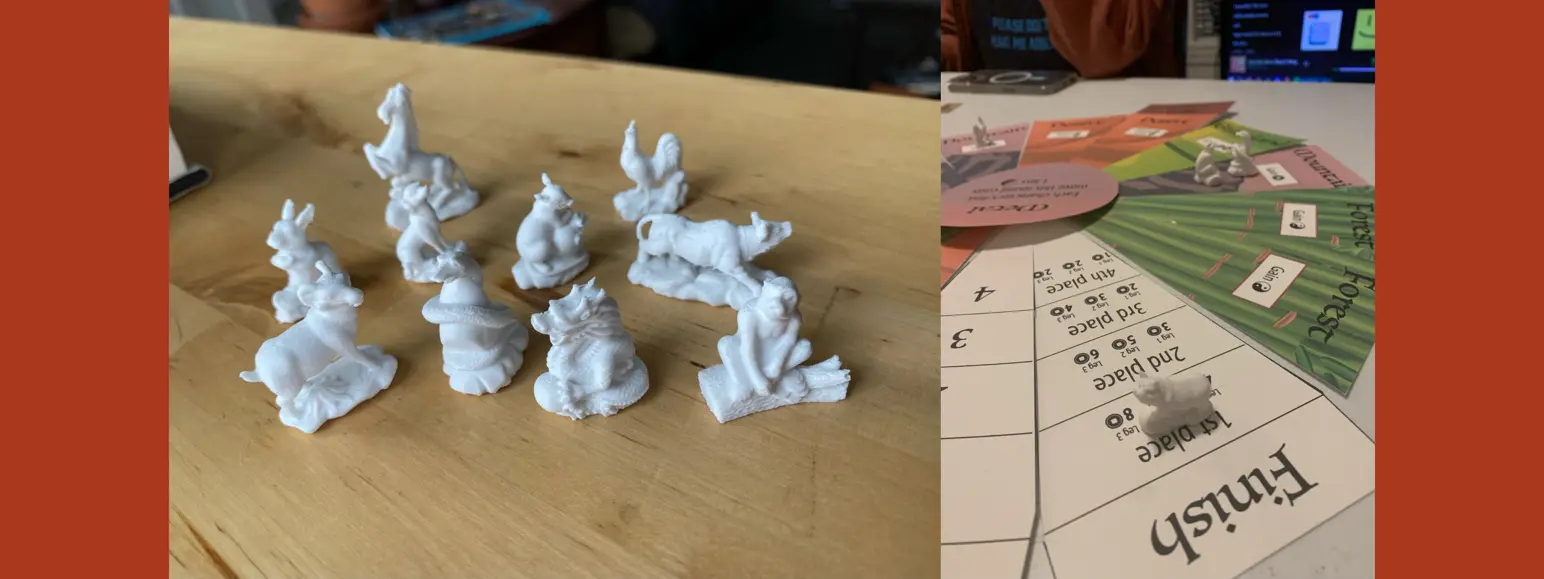
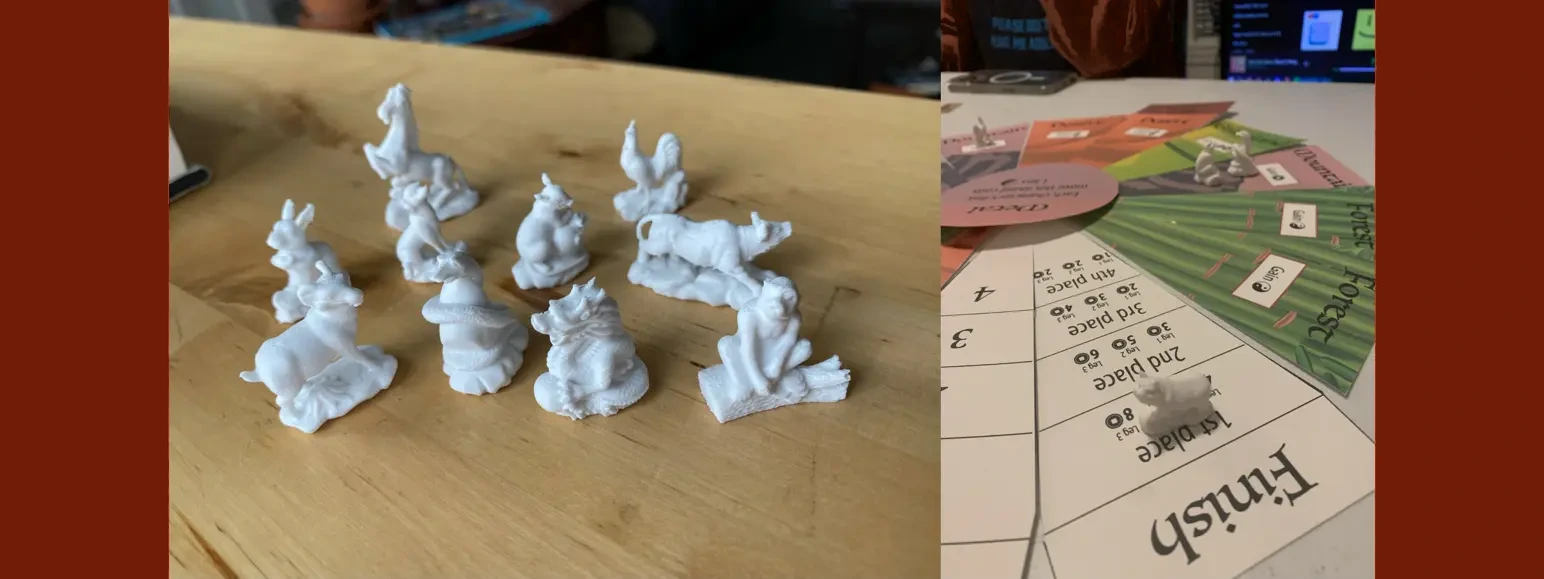
feat(worlds): palette contrast pass from Chris's marks
Pathstream, StartPlaying, Zodiacus grounds deepened; accents re-picked (white on
Clover, Pathstream, TaskRabbit; darker blues on y30 and PlaySesh; purple on
Sharecare; warm off-white on StartPlaying). Label text on Pathstream, TaskRabbit,
StartPlaying now passes 4.5:1. Modus and Amazon cards lifted so they separate from
the ground, with status-warn lightened to keep 4.5:1 on them. Pathstream,
Zodiacus, and TaskRabbit hero images recolored so their baked-in ground matches.
Chosen in spike-palette (throwaway, not committed).

Changed region(s): [[0.8705, 0.0, 1.0, 1.0], [0.0, 0.0, 0.1244, 1.0]]

diff --git a/index.html b/index.html
@@ -1558,18 +1558,20 @@ body[data-world="goodrx"]{
   --world-line:rgba(26,23,16,.22); --world-accent:#6d4bd8; --world-surface:#fffdf0;
   --world-card-bg:#1a1710; --world-card-ink:#ffffff;
   --world-accent-on-card:#9981e4;}
-/* Chris's palettes 2026-09-21. bg/ink his; ACCENT = my suggestion pending his confirm; surface derived
+/* Palette contrast pass 2026-09-23 (Chris's marks, spike-palette): pathstream/startplaying/zodiacus grounds deepened,
+   accents re-picked, label text on pathstream/taskrabbit/startplaying raised to pass, modus/amazon cards lifted.
+   Chris's palettes 2026-09-21. bg/ink his; ACCENT = my suggestion pending his confirm; surface derived
    from bg (his literal white/black surfaces conflicted with the single ink). Cards inherit the base. */
-body[data-world="y30"]{--world-bg:#edf0e7;--world-ink:#111111;--world-ink-soft:rgba(17,17,17,.70);--world-line:rgba(17,17,17,.16);--world-accent:#2E7DDD;--world-surface:color-mix(in srgb,var(--world-bg) 90%,var(--world-ink) 10%);--world-accent-on-card:#5897e4;}
-body[data-world="clover"]{--world-bg:#2D6154;--world-ink:#ffffff;--world-ink-soft:rgba(255,255,255,.72);--world-line:rgba(255,255,255,.22);--world-accent:#333333;--world-surface:color-mix(in srgb,var(--world-bg) 88%,var(--world-ink) 12%);--world-accent-on-card:#999999;}
-body[data-world="playsesh"]{--world-bg:#FEFEFE;--world-ink:#2C3E50;--world-ink-soft:rgba(44,62,80,.72);--world-line:rgba(44,62,80,.18);--world-accent:#4A90E2;--world-surface:color-mix(in srgb,var(--world-bg) 92%,var(--world-ink) 8%);--world-accent-on-card:#5396e3;}
-body[data-world="pathstream"]{--world-bg:#F05154;--world-ink:#ffffff;--world-ink-soft:rgba(255,255,255,.74);--world-line:rgba(255,255,255,.24);--world-accent:#2698D4;--world-surface:color-mix(in srgb,var(--world-bg) 88%,var(--world-ink) 12%);--world-accent-on-card:#319dd6;}
-body[data-world="taskrabbit"]{--world-bg:#038745;--world-ink:#ffffff;--world-ink-soft:rgba(255,255,255,.74);--world-line:rgba(255,255,255,.24);--world-accent:#0089AB;--world-surface:color-mix(in srgb,var(--world-bg) 88%,var(--world-ink) 12%);--world-accent-on-card:#33a1bc;}
-body[data-world="sharecare"]{--world-bg:#C6E2DA;--world-ink:#111111;--world-ink-soft:rgba(17,17,17,.68);--world-line:rgba(17,17,17,.16);--world-accent:#14857A;--world-surface:color-mix(in srgb,var(--world-bg) 90%,var(--world-ink) 10%);--world-accent-on-card:#4fa49b;}
-body[data-world="startplaying"]{--world-bg:#136DF5;--world-ink:#ffffff;--world-ink-soft:rgba(255,255,255,.76);--world-line:rgba(255,255,255,.26);--world-accent:#212121;--world-surface:color-mix(in srgb,var(--world-bg) 88%,var(--world-ink) 12%);--world-accent-on-card:#9b9b9b;}
-body[data-world="modus"]{--world-bg:#000000;--world-ink:#ffffff;--world-ink-soft:rgba(255,255,255,.66);--world-line:rgba(255,255,255,.20);--world-accent:#3872E7;--world-surface:color-mix(in srgb,var(--world-bg) 80%,var(--world-ink) 20%);--world-accent-on-card:#6a95ed;}
-body[data-world="amazon"]{--world-bg:#131921;--world-ink:#ffffff;--world-ink-soft:rgba(255,255,255,.70);--world-line:rgba(255,255,255,.20);--world-accent:#FF6301;--world-surface:color-mix(in srgb,var(--world-bg) 84%,var(--world-ink) 16%);--world-accent-on-card:#FF6301;}
-body[data-world="zodiacus"]{--world-bg:#AA381E;--world-ink:#ffffff;--world-ink-soft:rgba(255,255,255,.74);--world-line:rgba(255,255,255,.24);--world-accent:#E0A657;--world-surface:color-mix(in srgb,var(--world-bg) 86%,var(--world-ink) 14%);--world-accent-on-card:#E0A657;}
+body[data-world="y30"]{--world-bg:#edf0e7;--world-ink:#111111;--world-ink-soft:rgba(17,17,17,.70);--world-line:rgba(17,17,17,.16);--world-accent:#196cca;--world-surface:color-mix(in srgb,var(--world-bg) 90%,var(--world-ink) 10%);--world-accent-on-card:#5e98da;}
+body[data-world="clover"]{--world-bg:#2D6154;--world-ink:#ffffff;--world-ink-soft:rgba(255,255,255,.72);--world-line:rgba(255,255,255,.22);--world-accent:#ffffff;--world-surface:color-mix(in srgb,var(--world-bg) 88%,var(--world-ink) 12%);--world-accent-on-card:#ffffff;}
+body[data-world="playsesh"]{--world-bg:#FEFEFE;--world-ink:#2C3E50;--world-ink-soft:rgba(44,62,80,.72);--world-line:rgba(44,62,80,.18);--world-accent:#3177c7;--world-surface:color-mix(in srgb,var(--world-bg) 92%,var(--world-ink) 8%);--world-accent-on-card:#6499d5;}
+body[data-world="pathstream"]{--world-bg:#d93a41;--world-ink:#ffffff;--world-ink-soft:#ffffff;--world-line:rgba(255,255,255,.24);--world-accent:#ffffff;--world-surface:color-mix(in srgb,var(--world-bg) 88%,var(--world-ink) 12%);--world-accent-on-card:#ffffff;}
+body[data-world="taskrabbit"]{--world-bg:#038745;--world-ink:#ffffff;--world-ink-soft:#ffffff;--world-line:rgba(255,255,255,.24);--world-accent:#ffffff;--world-surface:color-mix(in srgb,var(--world-bg) 88%,var(--world-ink) 12%);--world-accent-on-card:#ffffff;}
+body[data-world="sharecare"]{--world-bg:#C6E2DA;--world-ink:#111111;--world-ink-soft:rgba(17,17,17,.68);--world-line:rgba(17,17,17,.16);--world-accent:#3c29b4;--world-surface:color-mix(in srgb,var(--world-bg) 90%,var(--world-ink) 10%);--world-accent-on-card:#9489d6;}
+body[data-world="startplaying"]{--world-bg:#0766ee;--world-ink:#ffffff;--world-ink-soft:rgba(255,255,255,.94);--world-line:rgba(255,255,255,.26);--world-accent:#fef1dd;--world-surface:color-mix(in srgb,var(--world-bg) 88%,var(--world-ink) 12%);--world-accent-on-card:#fef1dd;}
+body[data-world="modus"]{--world-bg:#000000;--world-ink:#ffffff;--world-ink-soft:rgba(255,255,255,.66);--world-line:rgba(255,255,255,.20);--world-accent:#3872E7;--world-surface:color-mix(in srgb,var(--world-bg) 80%,var(--world-ink) 20%);--world-accent-on-card:#88aaf1;--world-card-bg:#292f34;--status-warn:#e3785c;}
+body[data-world="amazon"]{--world-bg:#131921;--world-ink:#ffffff;--world-ink-soft:rgba(255,255,255,.70);--world-line:rgba(255,255,255,.20);--world-accent:#FF6301;--world-surface:color-mix(in srgb,var(--world-bg) 84%,var(--world-ink) 16%);--world-accent-on-card:#ffa167;--world-card-bg:#373b41;--status-warn:#e88e77;}
+body[data-world="zodiacus"]{--world-bg:#721c07;--world-ink:#ffffff;--world-ink-soft:rgba(255,255,255,.74);--world-line:rgba(255,255,255,.24);--world-accent:#E0A657;--world-surface:color-mix(in srgb,var(--world-bg) 86%,var(--world-ink) 14%);--world-accent-on-card:#E0A657;}
 /* NIGHT variants (day/night per world). Auto-derived from each day palette as a starting point:
    darken the bg toward near-black keeping a hint of hue, light ink, lift dark accents, raise the card.
    HELD: gated behind body.night-worlds (not set anywhere yet) so DAY stays the default in BOTH light and
